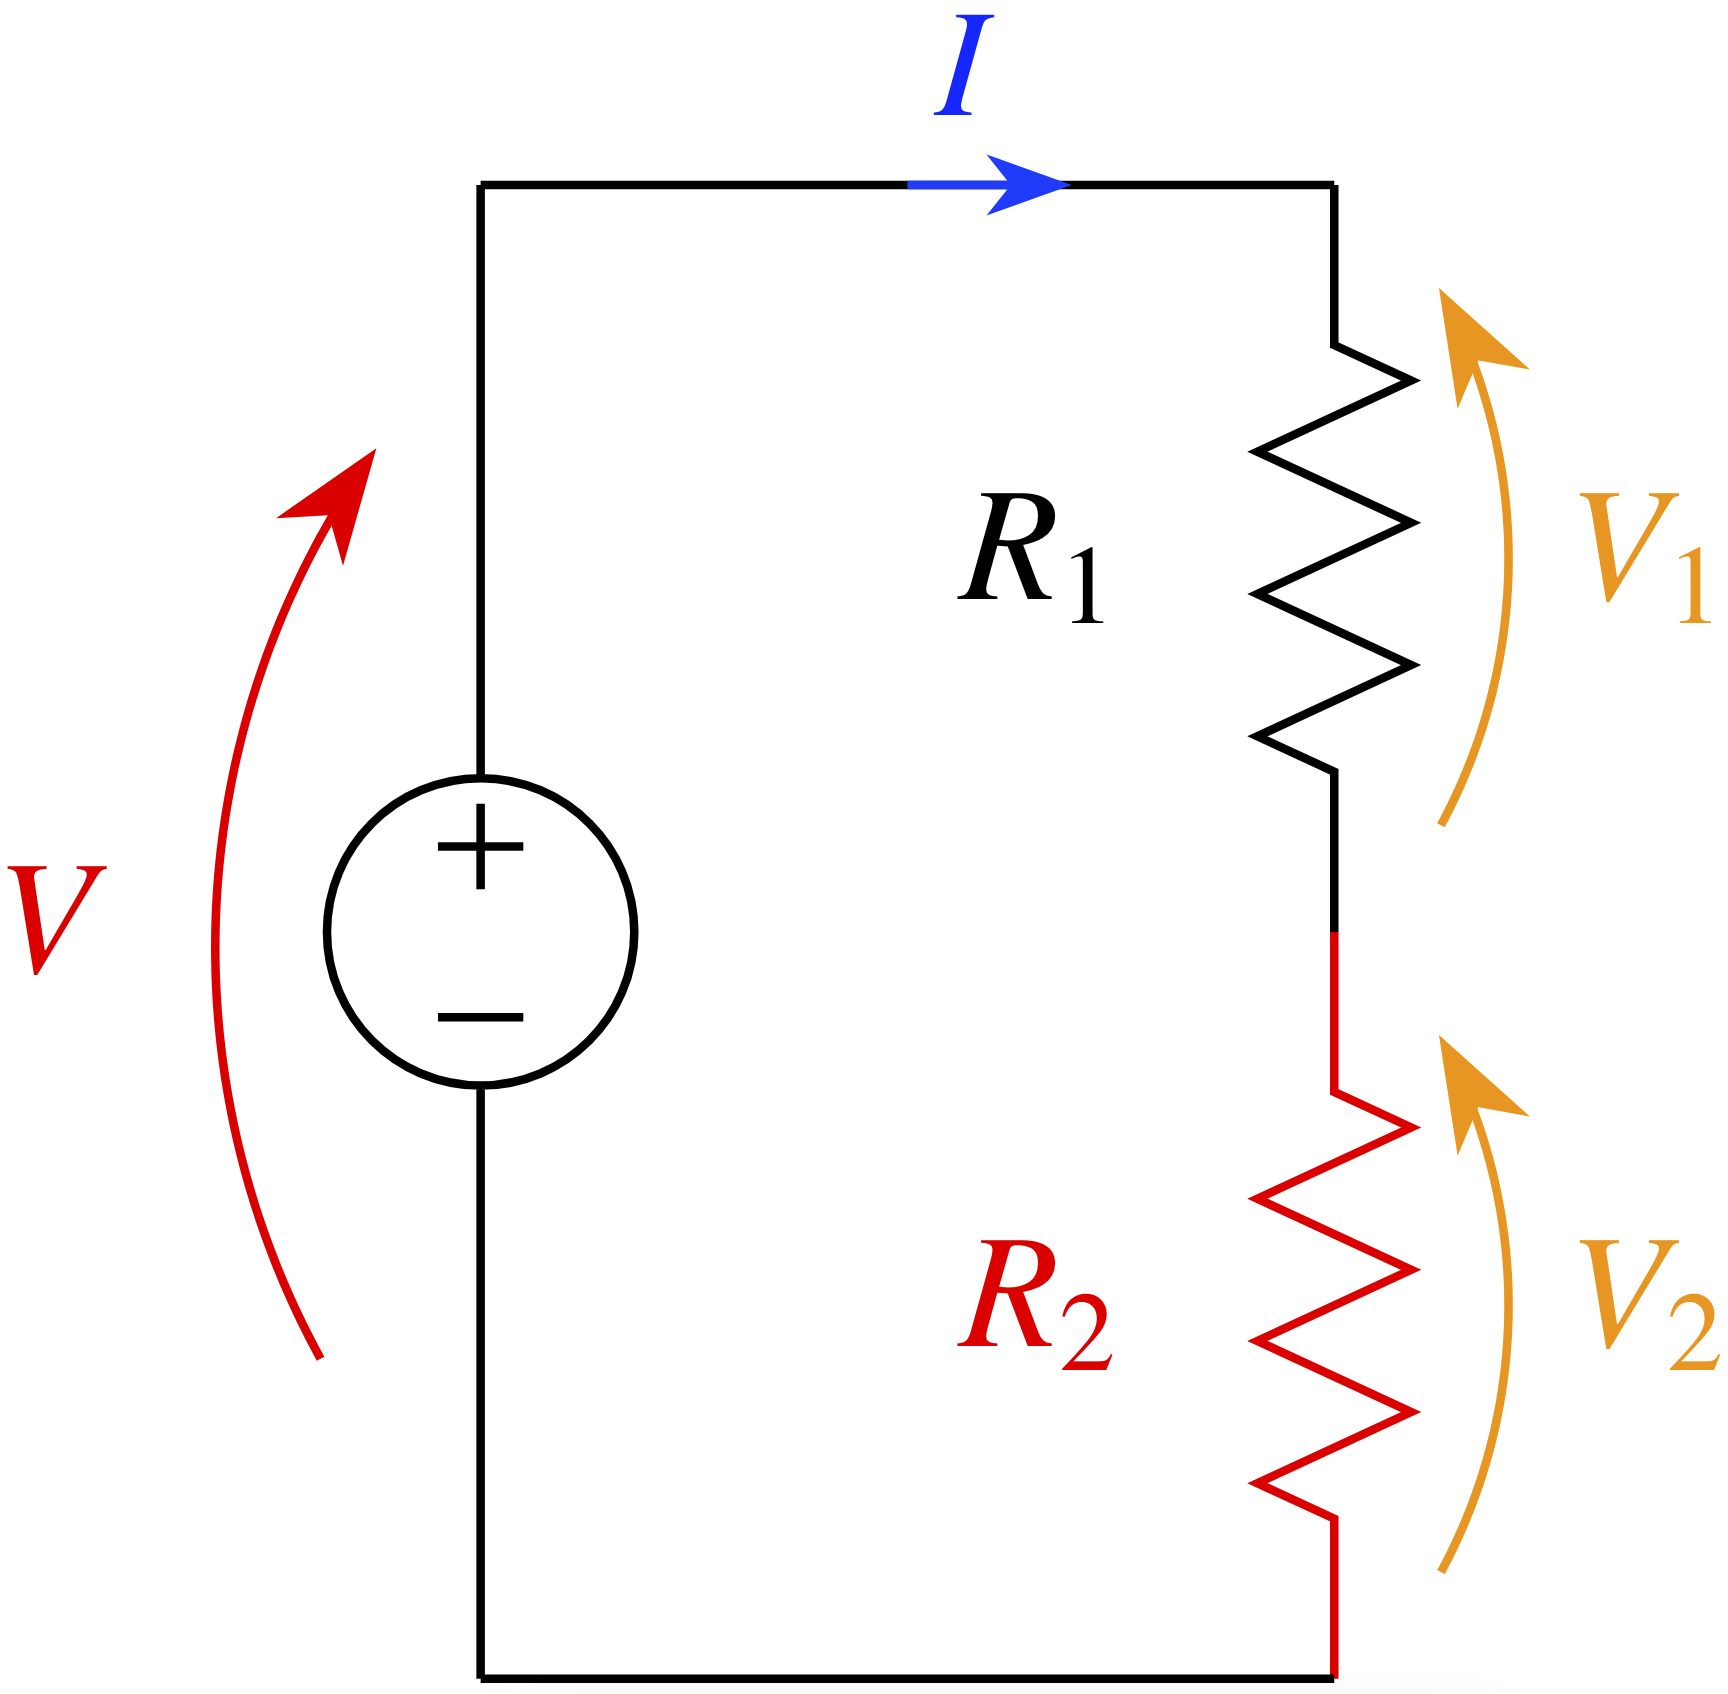
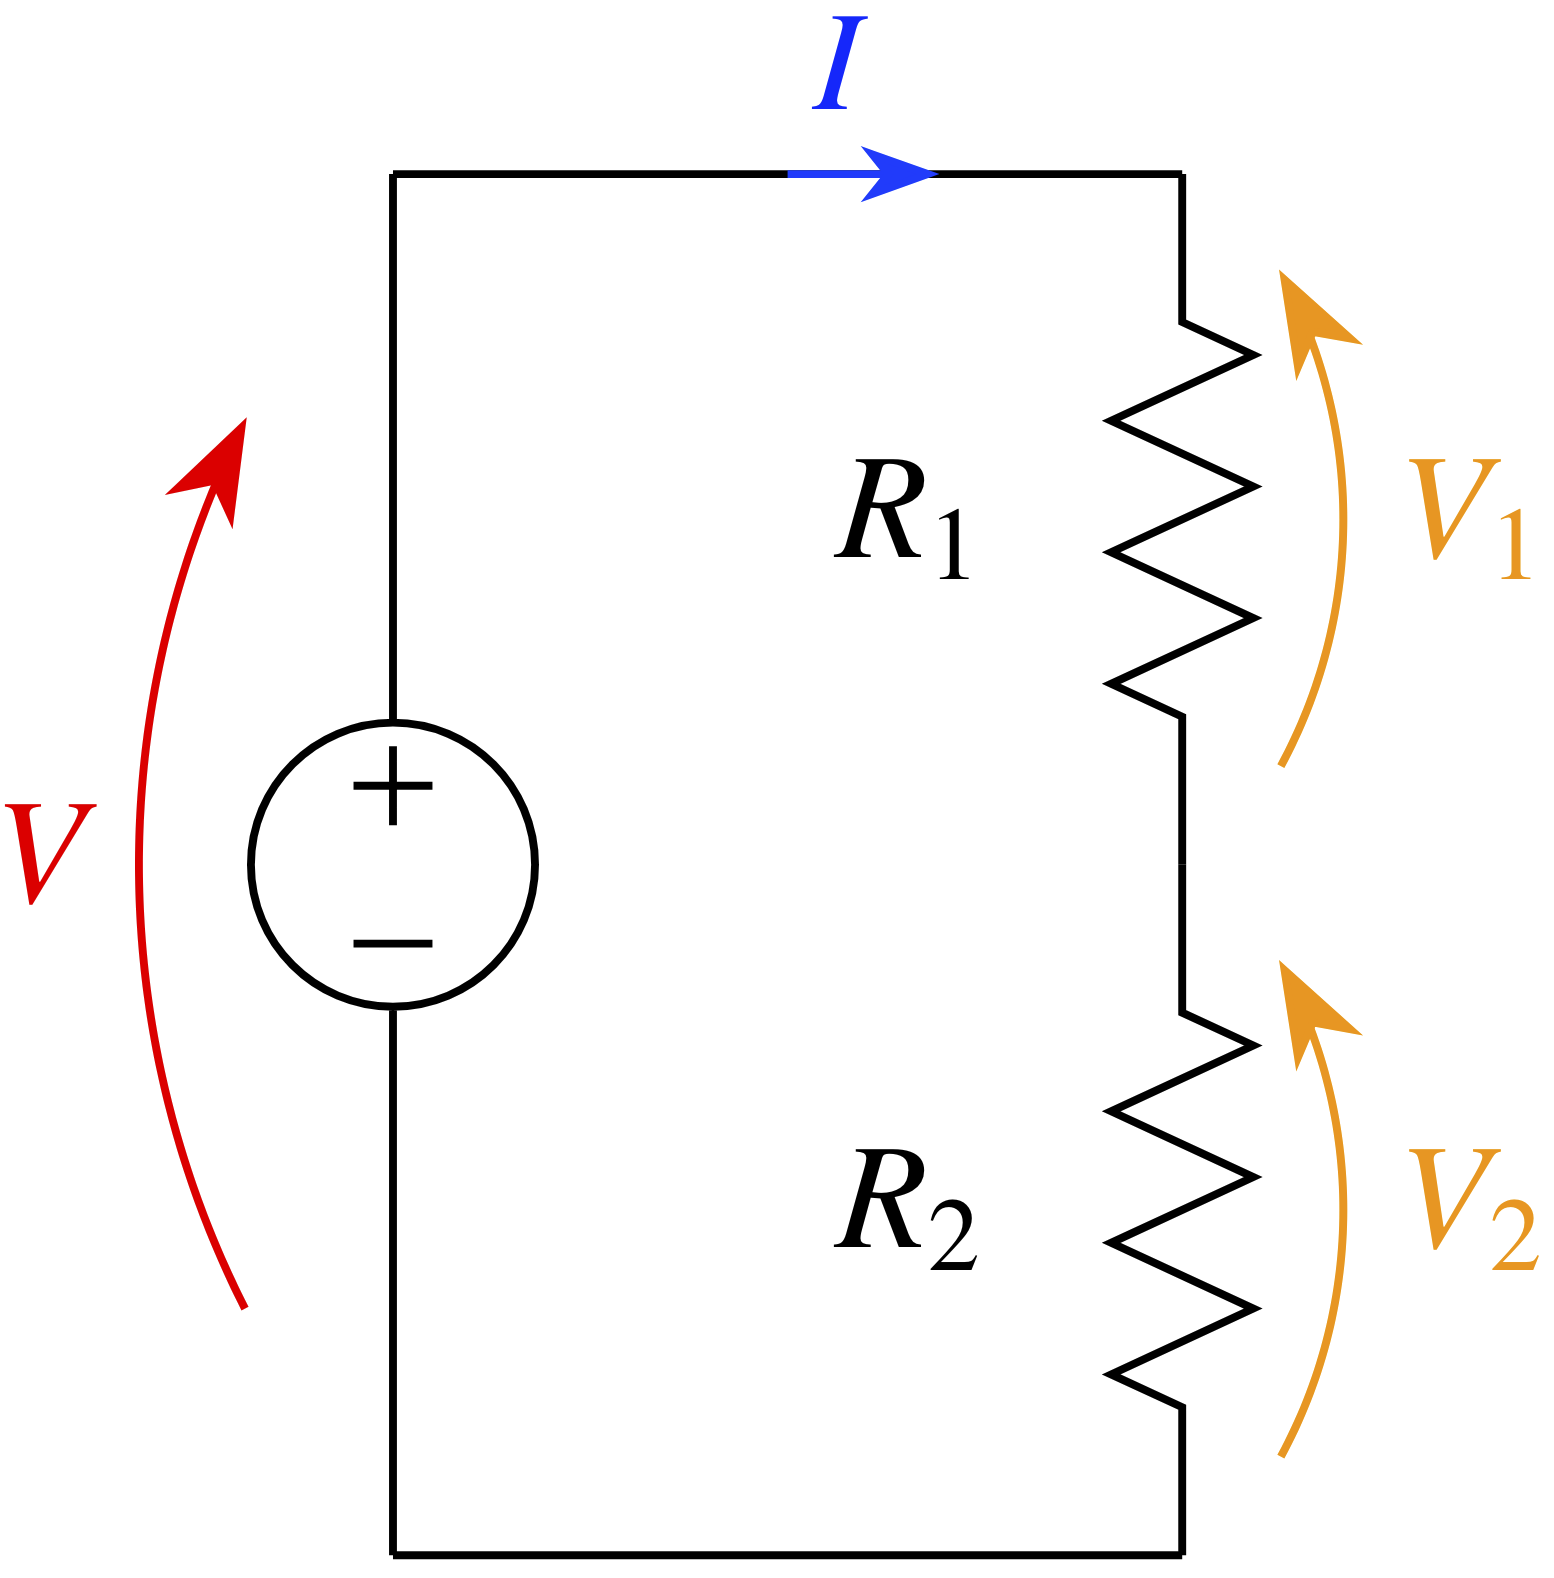
kvl

diff --git a/src/styles/lezione.css b/src/styles/lezione.css
@@ -798,7 +798,6 @@ body .page .content-panel:first-child {
 
 .sl-markdown-content a {
   color: --fa-text !important; /* Blu scuro ben visibile */
-  text-decoration: underline !important;
   text-underline-offset: 3px !important;
   transition: color 0.15s ease !important;
 }
@@ -806,6 +805,5 @@ body .page .content-panel:first-child {
 .sl-markdown-content a:hover,
 .sl-markdown-content a:focus {
   color: #1e40af !important; /* Blu leggermente più scuro su hover, mai bianco */
-  text-decoration: underline !important;
 }
 
